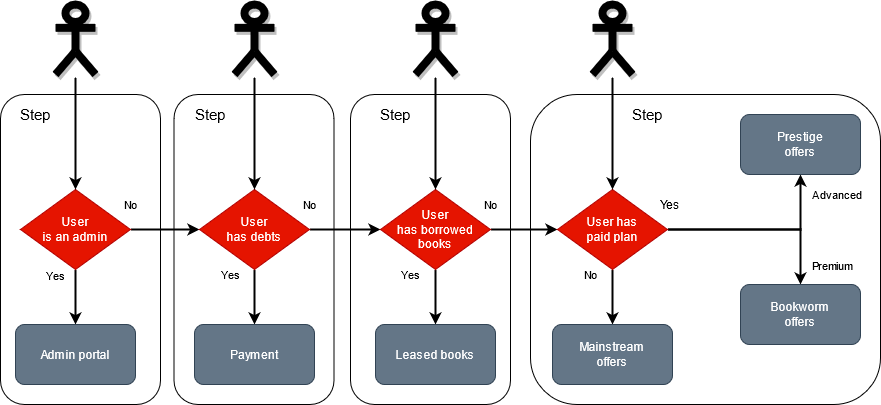
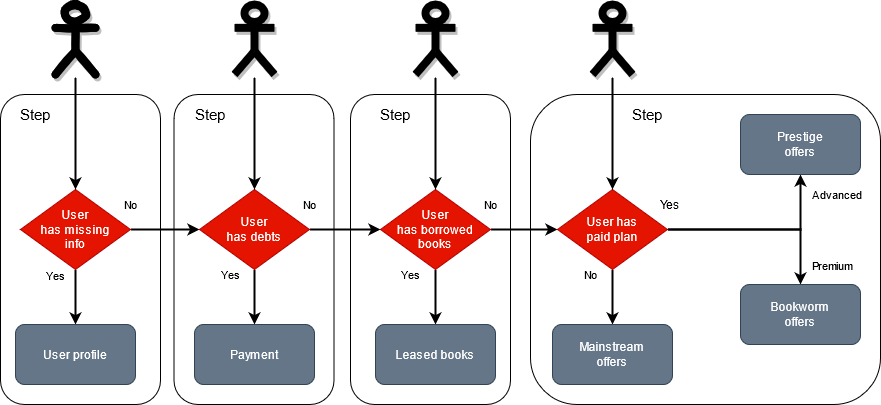
Streamlining example workflow

diff --git a/src/middleware/index.test.ts b/src/middleware/index.test.ts
@@ -6,16 +6,16 @@ describe('middlewareResolveFrom function', () => {
   describe('From step 1', () => {
     it('should return admin-portal if user is an admin', async () => {
       const deadEnd = await middlewareResolveFrom(
-        Gate.UserIsAdmin,
+        Gate.userHasMissingInfo,
         'yolanda@cool.org'
       );
 
-      expect(deadEnd).toBe(DeadEnd.AdminPortal);
+      expect(deadEnd).toBe(DeadEnd.UserProfile);
     });
 
     it('should return payment if user is in debt', async () => {
       const deadEnd = await middlewareResolveFrom(
-        Gate.UserIsAdmin,
+        Gate.userHasMissingInfo,
         'yolo@cool.org'
       );
 
@@ -24,7 +24,7 @@ describe('middlewareResolveFrom function', () => {
 
     it('should return leased-books if user has borrowed books', async () => {
       const deadEnd = await middlewareResolveFrom(
-        Gate.UserIsAdmin,
+        Gate.userHasMissingInfo,
         'bro@cool.org'
       );
 
@@ -33,7 +33,7 @@ describe('middlewareResolveFrom function', () => {
 
     it('should return bookworm-offers', async () => {
       const deadEnd = await middlewareResolveFrom(
-        Gate.UserIsAdmin,
+        Gate.userHasMissingInfo,
         'yolila@cool.org'
       );
 
@@ -42,7 +42,7 @@ describe('middlewareResolveFrom function', () => {
 
     it('should return prestige-offers', async () => {
       const deadEnd = await middlewareResolveFrom(
-        Gate.UserIsAdmin,
+        Gate.userHasMissingInfo,
         'boy@cool.org'
       );
 

diff --git a/src/middleware/index.ts b/src/middleware/index.ts
@@ -1,9 +1,6 @@
 import { getUserData } from '../data-fetching/getUserData';
 import { Workflow } from './logic/workflow';
-import { userHasBorrowedBooks } from './steps/user-has-borrowed-books';
-import { userhasDebts } from './steps/user-has-debts';
-import { userHasPaidPlan } from './steps/user-has-paid-plan';
-import { userIsAdmin } from './steps/user-is-admin';
+import { userHasBorrowedBooks, userhasDebts, userHasMissingInfo, userHasPaidPlan } from './steps';
 import { WorkflowContext } from './types/workflow-context.interface';
 import { DeadEnd } from './types/workflow-deadends.enum';
 import { WorkflowGate } from './types/workflow-gates';
@@ -12,14 +9,13 @@ export const middlewareResolveFrom = async (
   step: WorkflowGate,
   email: string
 ): Promise<DeadEnd> => {
-  const { isAdmin, hasDebts, hasBorrowedBooks, plan } = await getUserData(
-    email
-  );
+  const { hasMissingInfo, hasDebts, hasBorrowedBooks, plan } =
+    await getUserData(email);
 
   const context: WorkflowContext = { startStep: step };
 
   const workflow = Workflow<WorkflowContext>(
-    userIsAdmin(isAdmin),
+    userHasMissingInfo(hasMissingInfo),
     userhasDebts(hasDebts),
     userHasBorrowedBooks(hasBorrowedBooks),
     userHasPaidPlan(plan)

diff --git a/src/data-fetching/getUserData.ts b/src/data-fetching/getUserData.ts
@@ -4,7 +4,7 @@ import { getUserBorrowedBooks } from './getUserBorrowedBooks';
 import { getUserDebts } from './getUserDebts';
 
 interface UserData {
-  isAdmin: boolean;
+  hasMissingInfo: boolean;
   hasBorrowedBooks: boolean;
   hasDebts: boolean;
   plan?: Plan;
@@ -17,13 +17,13 @@ export const getUserData = async (email: string): Promise<UserData> => {
     throw new Error('User not found');
   }
 
-  const isAdmin = user?.roles.includes('admin') || false;
+  const hasMissingInfo = user?.country === undefined;
   const plan = user?.plan || undefined;
   const hasBorrowedBooks = (await getUserBorrowedBooks(user.id)).length > 0;
   const hasDebts = (await getUserDebts(user.id)).length > 0;
 
   return {
-    isAdmin,
+    hasMissingInfo,
     hasBorrowedBooks,
     hasDebts,
     plan,

diff --git a/src/middleware/steps/user-has-missing-info.ts b/src/middleware/steps/user-has-missing-info.ts
@@ -3,16 +3,16 @@ import { WorkflowContext } from '../types/workflow-context.interface';
 import { DeadEnd } from '../types/workflow-deadends.enum';
 import { WorkflowGate as Gate } from '../types/workflow-gates';
 
-export const userIsAdmin = (isAdmin: boolean) => {
+export const userHasMissingInfo = (hasMissingInfo: boolean) => {
   return async (
     context: WorkflowContext,
     next: NextFunction
   ): Promise<void> => {
-    const isStepIgnored = context.startStep > Gate.UserIsAdmin;
-    if (isStepIgnored || !isAdmin) {
+    const isStepIgnored = context.startStep > Gate.userHasMissingInfo;
+    if (isStepIgnored || !hasMissingInfo) {
       return await next();
     }
 
-    context.deadEnd = DeadEnd.AdminPortal;
+    context.deadEnd = DeadEnd.UserProfile;
   };
 };

diff --git a/src/types/data/user.interface.ts b/src/types/data/user.interface.ts
@@ -1,10 +1,9 @@
 export type Plan = 'advanced' | 'premium' | 'none';
-export type Role = 'admin' | 'user';
 
 export interface User {
   id: number;
   email: string;
   name: string;
-  roles: Array<Role>;
+  country?: string;
   plan?: Plan;
 }

diff --git a/src/middleware/types/workflow-deadends.enum.ts b/src/middleware/types/workflow-deadends.enum.ts
@@ -1,5 +1,5 @@
 export enum DeadEnd {
-  AdminPortal = 'admin-portal',
+  UserProfile = 'user-profile',
   Payment = 'payment',
   LeasedBooks = 'leased-books',
   MainstreamOffers = 'mainstream-offers',

diff --git a/src/middleware/steps/index.ts b/src/middleware/steps/index.ts
@@ -1,0 +1,4 @@
+export * from './user-has-missing-info';
+export * from './user-has-debts';
+export * from './user-has-borrowed-books';
+export * from './user-has-paid-plan';

diff --git a/src/middleware/types/workflow-gates.ts b/src/middleware/types/workflow-gates.ts
@@ -1,5 +1,5 @@
 export enum WorkflowGate {
-  UserIsAdmin = 1,
+  userHasMissingInfo = 1,
   UserHasDebts = 2,
   UserHasBorrowedBooks = 3,
   UserHasPaidPlan = 4,
